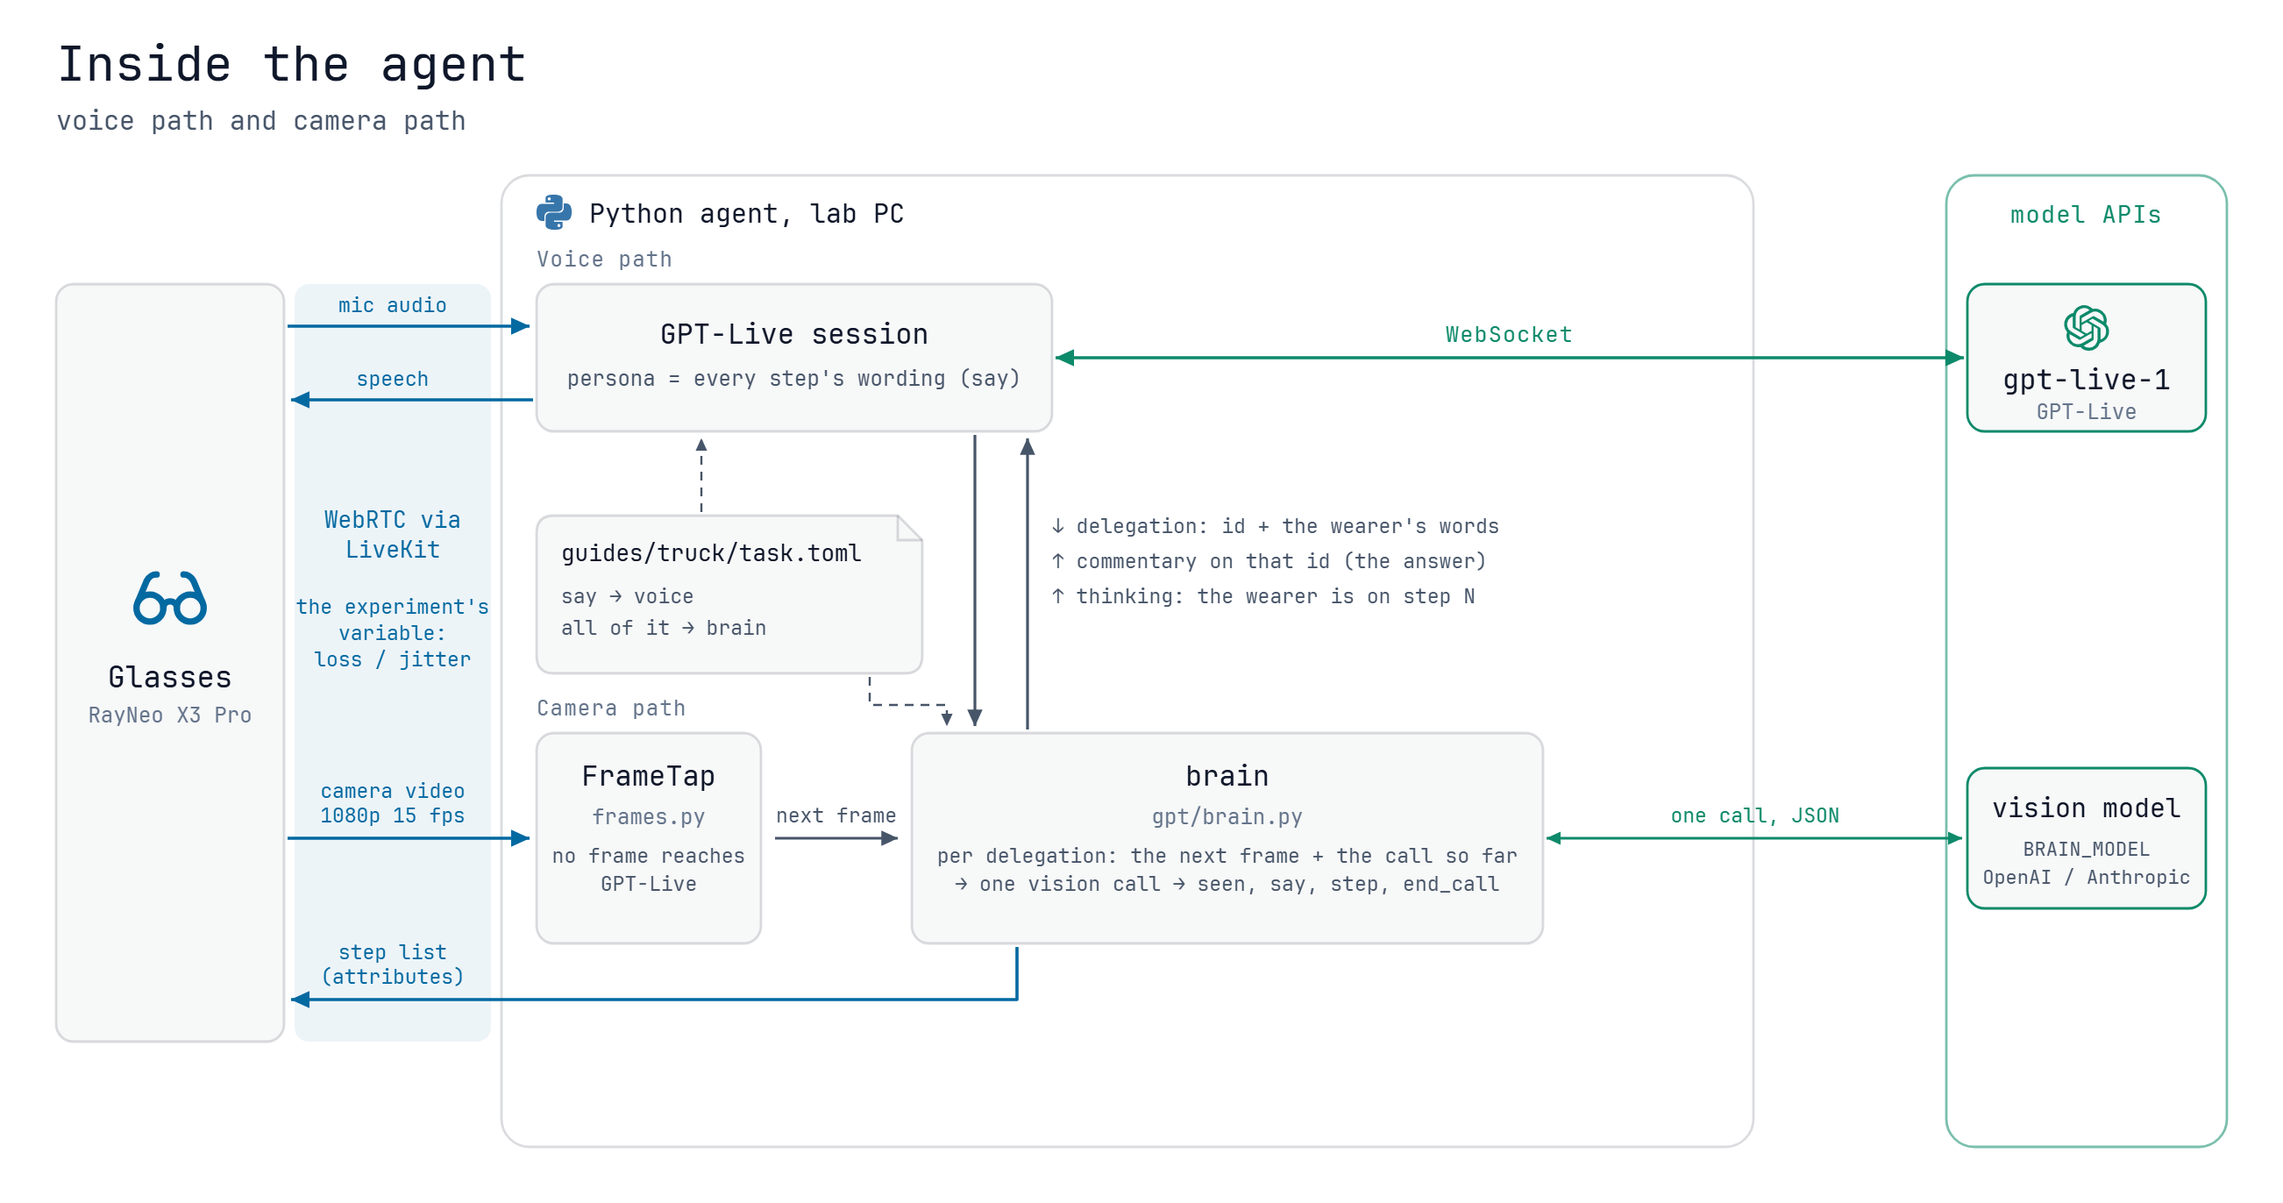
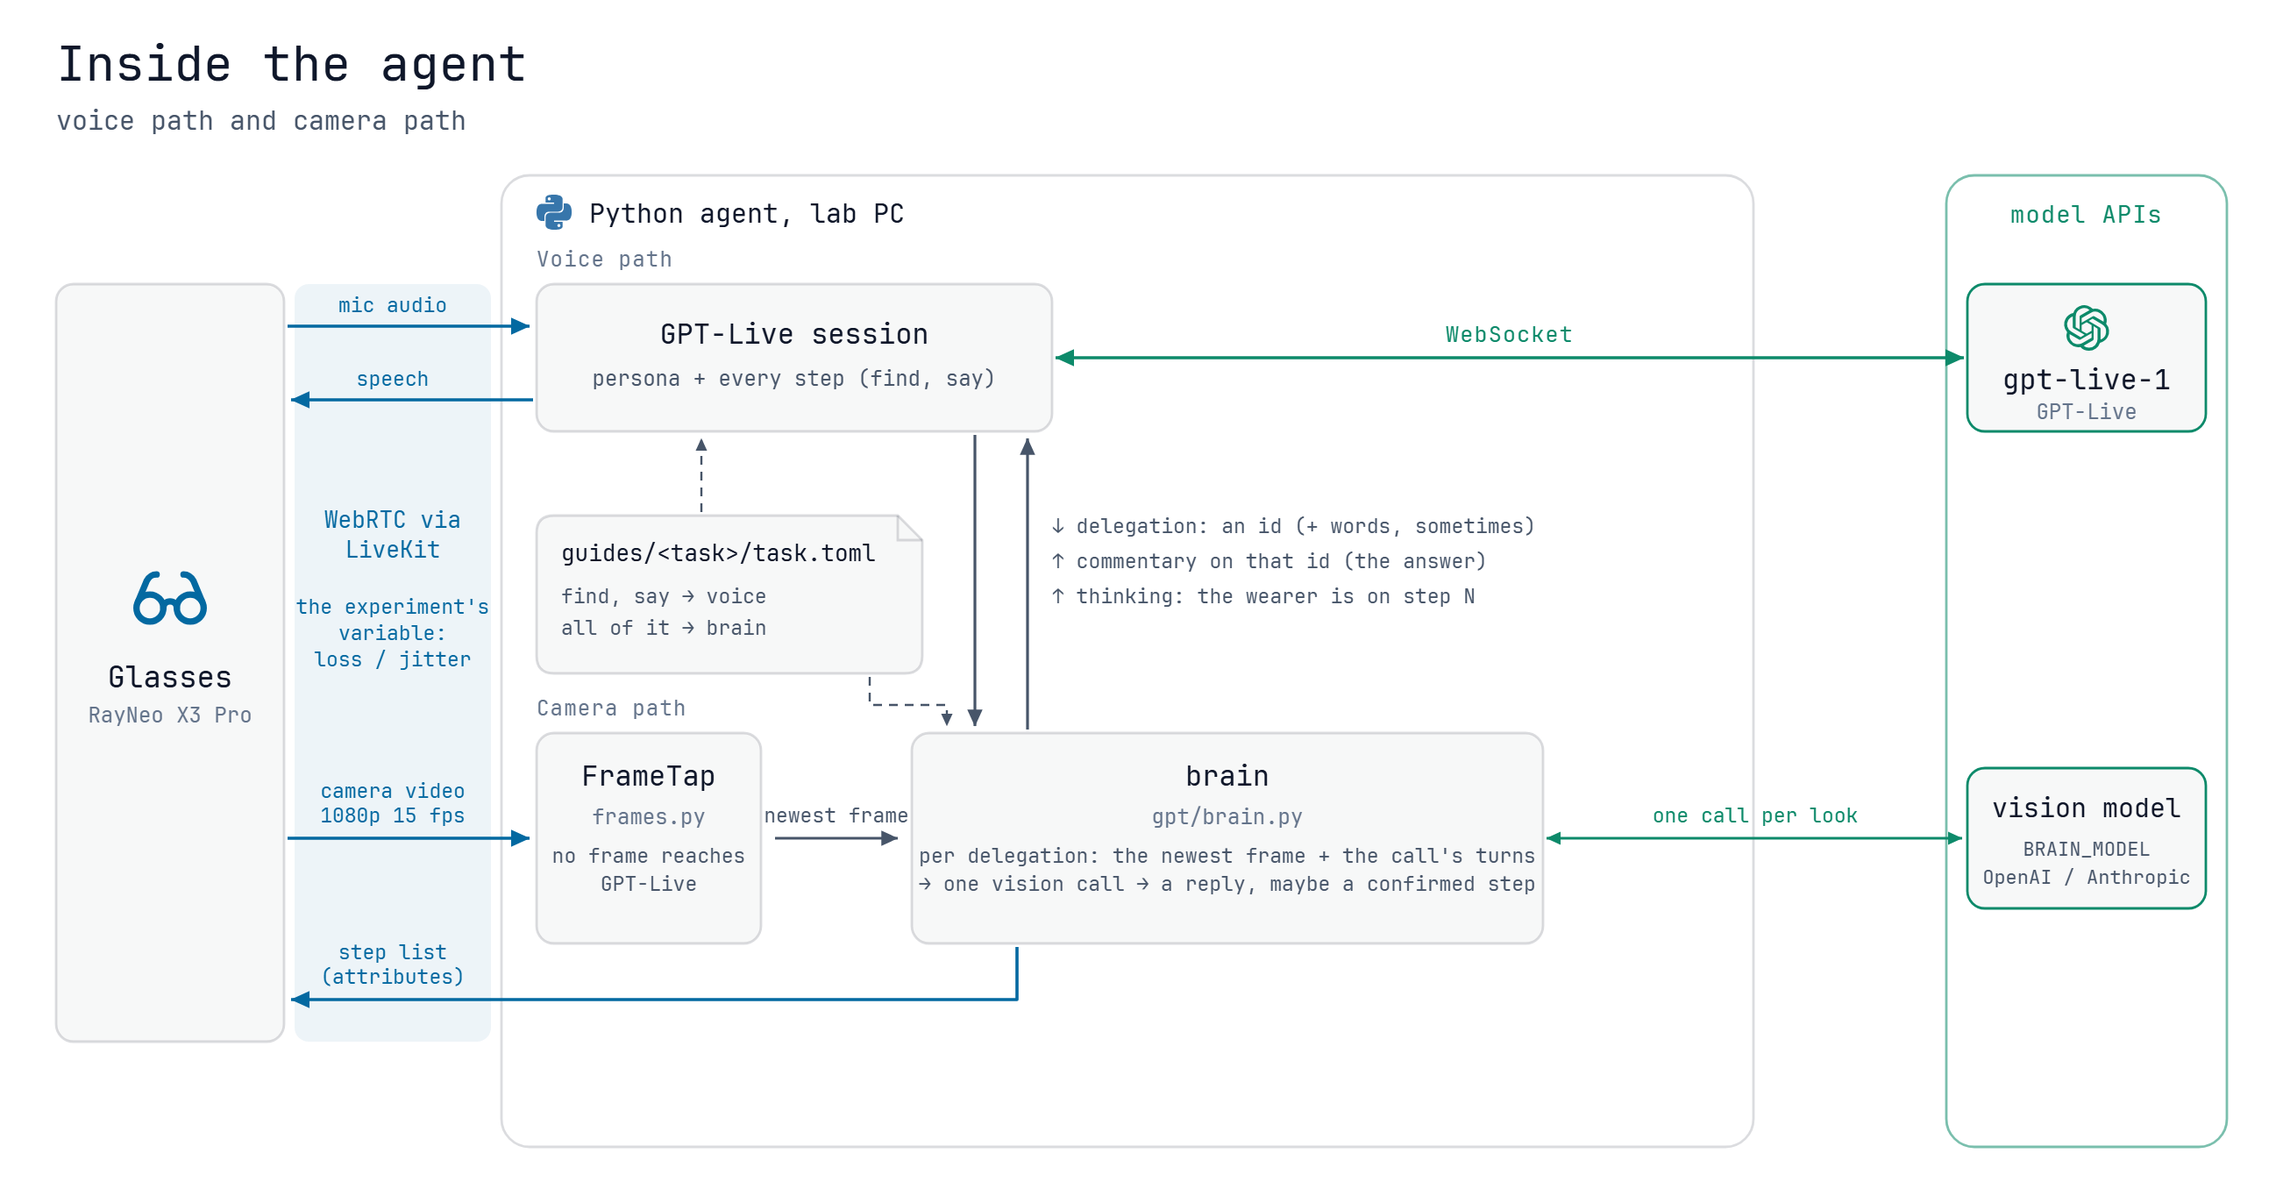
README and .env.example in step with brain-v2 (task pick through the api, the greeting names the build, the brain's two-part steps, Sonnet 5.5 low, 13 tasks, tasks/); the agent diagram's labels (newest frame, the call's turns, find/say, a reply with maybe a confirmed step); eval/brain: the live look

diff --git a/eval/brain/replay_look.py b/eval/brain/replay_look.py
@@ -1,0 +1,91 @@
+"""Replay one look of a recorded call through the brain's own Anthropic client, exactly as sent (the run's brain.txt,
+turns, notice, words, photo), under several model configs, keeping the thinking text.
+
+    replay_look.py <run dir> <look n> <repeats> <MODEL_ENV_VAR:effort> [...]   -> <run dir>/replay-look<n>.json/.html
+"""
+import asyncio, html, json, os, sys, time
+
+ROOT = os.path.abspath(os.path.join(os.path.dirname(__file__), "..", ".."))
+sys.path.insert(0, os.path.join(ROOT, "backend", "agent", "src"))
+from dotenv import load_dotenv
+load_dotenv(os.path.join(ROOT, "backend", ".env"))
+import gpt.brain as B
+
+run, n, repeats, configs = sys.argv[1], int(sys.argv[2]), int(sys.argv[3]), sys.argv[4:]
+events = [json.loads(l) for l in open(os.path.join(run, "events.jsonl"), encoding="utf-8")]
+sent = next(e for e in events if e["kind"] == "look_sent" and e["n"] == n)
+back = next(e for e in events if e["kind"] == "look_back" and e["n"] == n)
+instructions = open(os.path.join(run, "brain.txt"), encoding="utf-8").read()
+photo = open(os.path.join(run, sent["photo"]), "rb").read()
+turns = [tuple(t) for t in sent["turns"]]
+
+
+async def one(provider, var, effort):
+    model = os.environ[var]
+    got = {}
+    if provider == "openai":
+        m = B.OpenAIModel(model, effort, "high")
+        create = m._client.responses.create
+
+        async def keep(**kw):
+            if "reasoning" in kw:  # return a summary of the reasoning
+                kw["reasoning"] = {**kw["reasoning"], "summary": "auto"}
+            got["resp"] = r = await create(**kw)
+            return r
+        m._client.responses.create = keep
+    else:
+        m = B.AnthropicModel(model, effort)
+        create = m._client.messages.create
+
+        async def keep(**kw):
+            if kw.get("thinking", {}).get("type") == "adaptive":  # return the thinking text (5.x omits it by default)
+                kw["thinking"] = {**kw["thinking"], "display": "summarized"}
+            got["resp"] = r = await create(**kw)
+            return r
+        m._client.messages.create = keep
+    t0 = time.perf_counter()
+    try:
+        reply, calls, u = await m.ask(instructions, turns, sent["notice"], sent["words"], photo, "replay")
+    except Exception as e:
+        return {"model": model, "effort": effort, "error": f"{type(e).__name__}: {e}"[:300]}
+    secs = time.perf_counter() - t0
+    if provider == "openai":
+        thinking = "\n".join(x.text for o in got["resp"].output if o.type == "reasoning" for x in (o.summary or []))
+    else:
+        thinking = "\n".join(getattr(b, "thinking", "") or "" for b in got["resp"].content if b.type == "thinking")
+    return {"model": model, "effort": effort, "secs": round(secs, 2), "reply": reply, "calls": calls,
+            "confirm": any(c == "confirm_step_correct" and a.get("step") == sent["step"] for c, a in calls),
+            "thinking": thinking, "usage": u}
+
+
+async def main():
+    rows = []
+    for spec in configs:
+        parts = spec.split(":")
+        provider, var, effort = parts if len(parts) == 3 else ["anthropic", *parts]
+        for _ in range(repeats):
+            r = await one(provider, var, effort)
+            rows.append(r)
+            print(f"{r['model']} {effort}: {r.get('secs')} s confirm={r.get('confirm')} | {r.get('reply', r.get('error'))[:150]}")
+    out = os.path.join(run, f"replay-look{n}" + (os.environ.get("TAG") or ""))
+    json.dump({"look": n, "step": sent["step"], "recorded_reply": back["reply"], "rows": rows},
+              open(out + ".json", "w", encoding="utf-8"), ensure_ascii=False, indent=1)
+    page = [f"<meta charset=utf-8><style>body{{font-family:sans-serif;background:#111;color:#ddd;margin:20px}}"
+            f"td{{vertical-align:top;padding:6px 10px;border-top:1px solid #333}}pre{{white-space:pre-wrap;font-size:12px;"
+            f"background:#1b1b1b;padding:8px}}.ok{{color:#7d7}}.bad{{color:#f77}}summary{{color:#9cf;cursor:pointer}}</style>",
+            f"<h2>Look #{n} replayed (step {sent['step']}), {repeats}x per config</h2>",
+            f"<img src='{sent['photo']}' width=540 style='float:left;margin-right:16px'>",
+            f"<p>wearer: {html.escape(sent['words'])}</p><p>recorded reply: {html.escape(back['reply'])}</p>"
+            f"<p>truth: the step is right (four empty columns, ends level), so the right answer confirms step {sent['step']}.</p>"
+            "<div style='clear:both'></div><table>"]
+    for r in rows:
+        ok = r.get("confirm")
+        page.append(f"<tr><td>{r['model']}<br>{r['effort']}<br>{r.get('secs')} s<br>"
+                    f"<span class={'ok' if ok else 'bad'}>{'confirm' if ok else 'no confirm'}</span></td>"
+                    f"<td>{html.escape(r.get('reply') or r.get('error') or '')}<details><summary>thinking "
+                    f"({(r.get('usage') or {}).get('thinking')} tokens)</summary><pre>{html.escape(r.get('thinking') or '')}"
+                    f"</pre></details></td></tr>")
+    open(out + ".html", "w", encoding="utf-8").write("".join(page) + "</table>")
+    print(out + ".html")
+
+asyncio.run(main())

diff --git a/docs/make_agent_diagram.py b/docs/make_agent_diagram.py
@@ -155,7 +155,7 @@ def build(t: dict) -> str:
     sx, sy, sw, sh = SESS
     card(sx, sy, sw, sh)
     text(sx + sw / 2, sy + 34, "GPT-Live session", 16, t["text"])
-    text(sx + sw / 2, sy + 58, "persona = every step's wording (say)", 12, t["muted"])
+    text(sx + sw / 2, sy + 58, "persona + every step (find, say)", 12, t["muted"])
 
     # FrameTap and the brain
     tx0 = FX + IN
@@ -168,10 +168,10 @@ def build(t: dict) -> str:
     bcx0 = BRAIN_X + BRAIN_W / 2
     text(bcx0, PY + 30, "brain", 16, t["text"])
     text(bcx0, PY + 52, "gpt/brain.py", 12, t["dim"])
-    text(bcx0, PY + 74, "per delegation: the next frame + the call so far", 11.5, t["muted"])
-    text(bcx0, PY + 90, "→ one vision call → seen, say, step, end_call", 11.5, t["muted"])
+    text(bcx0, PY + 74, "per delegation: the newest frame + the call's turns", 11.5, t["muted"])
+    text(bcx0, PY + 90, "→ one vision call → a reply, maybe a confirmed step", 11.5, t["muted"])
     wire([(tx0 + TAP_W + 8, Y_PIPE), (BRAIN_X - 8, Y_PIPE)], t["muted"], "headm")
-    text((tx0 + TAP_W + BRAIN_X) / 2, Y_PIPE - 9, "next frame", 11.5, t["muted"])
+    text((tx0 + TAP_W + BRAIN_X) / 2, Y_PIPE - 9, "newest frame", 11.5, t["muted"])
 
     # task file
     tx, ty, tw, th = TASK
@@ -183,8 +183,8 @@ def build(t: dict) -> str:
         f'stroke-width="1.4"/>')
     add(f'<path d="M{tx + tw - fold} {ty} V{ty + fold} H{tx + tw}" fill="none" '
         f'stroke="{t["edge"]}" stroke-width="1.4"/>')
-    text(tx + 14, ty + 26, "guides/truck/task.toml", 13, t["text"], "start")
-    for j, s in enumerate(["say → voice", "all of it → brain"]):
+    text(tx + 14, ty + 26, "guides/&lt;task&gt;/task.toml", 13, t["text"], "start")
+    for j, s in enumerate(["find, say → voice", "all of it → brain"]):
         text(tx + 14, ty + 50 + j * 18, s, 11.5, t["muted"], "start")
     wire([(400, ty - 2), (400, sy + sh + 4)], t["muted"], "headm", 1.2, dash=True)
     wire([(tx + tw - 30, ty + th + 2), (tx + tw - 30, ty + th + 18), (BRAIN_X + 20, ty + th + 18),
@@ -193,7 +193,7 @@ def build(t: dict) -> str:
     # voice <-> brain
     wire([(X_DELEG, sy + sh + 2), (X_DELEG, PY - 4)], t["muted"], "headm")
     wire([(X_ANSWER, PY - 2), (X_ANSWER, sy + sh + 4)], t["muted"], "headm")
-    text(X_ANSWER + 14, 304, "↓ delegation: id + the wearer's words", 11.5, t["muted"], "start")
+    text(X_ANSWER + 14, 304, "↓ delegation: an id (+ words, sometimes)", 11.5, t["muted"], "start")
     text(X_ANSWER + 14, 324, "↑ commentary on that id (the answer)", 11.5, t["muted"], "start")
     text(X_ANSWER + 14, 344, "↑ thinking: the wearer is on step N", 11.5, t["muted"], "start")
 
@@ -231,7 +231,7 @@ def build(t: dict) -> str:
     wire([(sx + sw + 2, Y_WS), (cx1 - 2, Y_WS)], t["cloud"], "headv", 1.8, start=True)
     text((sx + sw + cx1) / 2, Y_WS - 9, "WebSocket", 12.5, t["cloud"], extra=' letter-spacing="0.6"')
     wire([(BRAIN_X + BRAIN_W + 2, Y_PIPE), (cx1 - 3, Y_PIPE)], t["cloud"], "headv", 1.4, start=True)
-    text((BRAIN_X + BRAIN_W + cx1) / 2, Y_PIPE - 9, "one call, JSON", 11.5, t["cloud"])
+    text((BRAIN_X + BRAIN_W + cx1) / 2, Y_PIPE - 9, "one call per look", 11.5, t["cloud"])
 
     add("</svg>")
     return "\n".join(out)

diff --git a/README.md b/README.md
@@ -32,8 +32,10 @@ ports reachable at the address it advertises):
 - **livekit-server** verifies join tokens and forwards media.
 - **api**: the glasses `POST /getToken` with a credential; `auth.py` turns it into a user
   id or a 401, `server.py` signs a ten-minute JWT with that identity and a `room_config`
-  naming the agent. `AUTH_MODE`: `dev` accepts everyone (private LAN), `static` wants one
-  shared bearer token, `jwt` verifies a token from an account system.
+  naming the agent, with the build the glasses picked (`?task=`) as the agent's dispatch
+  metadata. `GET /tasks` lists the builds on offer. `AUTH_MODE`: `dev` accepts everyone
+  (private LAN), `static` wants one shared bearer token, `jwt` verifies a token from an
+  account system.
 - **agent** registers under `AGENT_NAME`, joins only rooms whose token names it, and alone
   holds the model API keys. `AGENT_BACKEND=openai` runs the system below (`agent/src/gpt/`);
   `gemini` runs the old Gemini Live path (`agent/src/gemini/`). Model ids come from `.env`.
@@ -47,9 +49,9 @@ holds the step. One task file feeds both.
 <picture>
   <source media="(prefers-color-scheme: dark)" srcset="docs/agent-dark.png">
   <img alt="Inside the agent: audio to a GPT-Live session whose persona holds every step's wording;
-video to FrameTap; the session delegates to the brain with an id and the wearer's words, the brain
-takes the next frame and the call so far to a vision model and answers with commentary on that id,
-a new step as thinking, and the step list to the glasses; the task file feeds both"
+video to FrameTap; the session delegates to the brain with an id, the brain takes the newest frame
+and the call's turns to a vision model and answers with commentary on that id, a new step as
+thinking, and the step list to the glasses; the task file feeds both"
        src="docs/agent-light.png">
 </picture>
 
@@ -59,13 +61,17 @@ a new step as thinking, and the step list to the glasses; the task file feeds bo
    once the wearer has it, where it goes (`say`). What needs no eyes (the next step, an earlier one, what a brick looks
    like) it answers itself. Whatever depends on what is in front of the wearer ("is this
    right?", "where does it go?", "what is this?") it delegates; a goodbye it answers itself and
-   the wearer hangs up on the glasses. Client
-   delegation: the plugin hands the agent an id and the wearer's words, no backend model runs.
+   the wearer hangs up on the glasses. It opens the call by naming the build. Client
+   delegation: the plugin hands the agent an id (and the wearer's words when they are not in
+   the history yet, often not), no backend model runs.
 2. **Brain** (`gpt/brain.py`), one stateless vision call per delegation, to OpenAI or
    Anthropic (`BRAIN_PROVIDER`, `BRAIN_MODEL`, `BRAIN_EFFORT`), built like LiveKit's
    client-delegation example. Instructions: the role (the eyes; it never speaks to the wearer,
-   the voice says its reply), the whole task file, how to reply, five examples from a made-up build
-   (shared by every task; fixed, so the prompt cache hits). One tool, `confirm_step_correct(step)`, its rules in its own
+   the voice says its reply), the whole task file (a step with a find line comes in two parts,
+   and its facts apply once the brick is on the plate), how to reply, five examples from a
+   made-up build (shared by every task; fixed, so the prompt cache hits). `brain-v2` runs
+   Sonnet 5.5 at effort low: on a look that needs a gap counted, a replay got it right 10/10,
+   Haiku 5.5 low 3/10. One tool, `confirm_step_correct(step)`, its rules in its own
    description; there is no hang-up tool, a misjudged goodbye cut calls off. Turns: the call's
    chat history, the wearer as user and the voice as assistant. The last turn: the camera
    frame's bottom square (the glasses look down at the table; the top of the portrait frame is
@@ -78,8 +84,8 @@ a new step as thinking, and the step list to the glasses; the task file feeds bo
    goes, and the brain's earlier replies are not sent back to it: what a look saw survives as
    what the voice said of it. Offline tests of models, image and prompt:
    `eval/brain/RESULTS.md`.
-3. **Task file** (`guides/<task>/task.toml`: `ladder` and `letter-e`, five bricks each; `truck`
-   is the old 13-step task): per step the wording the wearer hears (`find`, `say`), where the brick goes and what a
+3. **Task file** (`guides/<task>/task.toml`; the 13 numbered five-brick tasks of
+   `tasks/sheet.html`, picked on the glasses; `truck` is the old 13-step task): per step the wording the wearer hears (`find`, `say`), where the brick goes and what a
    photo must show (`where`, `checks`), and the brick's cells (and, for the truck, colour tables
    for the CV judge). Where the build sits on the plate is loose; how its bricks sit against
    each other is exact. One vocabulary throughout, also in both prompts: the
@@ -109,8 +115,9 @@ backend/
                         the lego-harness-v1 camera loop, not run; eval/ uses the first four
   agent/src/gemini/     the Gemini Live path (not in use)
   agent/src/render.py   reference-model video stream (used by guides with a model.glb; the truck has none)
-  agent/guides/         build guides, chosen with BUILD_GUIDE; guides/letter-e is the current task
-android/                Kotlin + Compose app for the glasses
+  agent/guides/         build guides: the numbered tasks the glasses pick from; BUILD_GUIDE when none is picked
+android/                Kotlin + Compose app for the glasses (build picker, call screen)
+tasks/                  the five-brick task sheet (sheet.html) and the bricks it uses (bricks.jpg)
 deploy/
   setup.sh              first-time setup on a Linux host: key pair, livekit.yaml, .env
   livekit.lab.yaml      livekit-server config for a private LAN

diff --git a/eval/brain/RESULTS.md b/eval/brain/RESULTS.md
@@ -101,12 +101,35 @@ camera washes out light colours also seems to make the brain doubt white bricks 
 (median output 760 tokens in the last replay against ~400 before). Single looks did not show either effect
 (haiku-v5-medium 45/45).
 
-## To try on the glasses
+## A live look replayed (2026-10-11)
 
-Configs worth comparing live (all in `.env`, no rebuild): `BRAIN_PROVIDER=anthropic` with
-`BRAIN_MODEL=claude-haiku-5-5` and `BRAIN_EFFORT=medium` (most accurate), `low`, `none`; and
-`claude-sonnet-5-5` with `low`. The offline numbers say nothing about how long a wait feels or how Live words
-the reply.
+Ladder task, step 2 (two 1x6 rails, four empty columns between them, ends level): live, Haiku 5.5 low called the
+gap three, then five, then three, and the call stuck. Look #4 of that call (the first gap count, the wearer
+saying "No, it is even. Check again") replayed exactly as sent (the record's brain.txt, turns, notice, words and
+photo; `replay_look.py`), five times per config, two rounds for the Anthropic ones. The step was right, so the
+right answer confirms it.
+
+| config | right | seconds |
+|---|---|---|
+| Sonnet 5.5, effort low | 10/10 | 3.3-5.8 |
+| gpt-6-luna, effort low | 4/5 | 3.7-6.1 |
+| Haiku 5.5, effort medium | 6/10 | 4.9-7.9 |
+| Haiku 5.5, effort low | 3/10 | 4.1-8.0 |
+| gpt-6-sol, effort low | 1/5 | 4.1-9.0 |
+
+Every model's thinking measures instead of counting: pixel positions of the two bricks divided by a guessed stud
+pitch. Haiku took the pitch over the whole plate, too big for the far half under perspective, and came out one
+short; sol guessed it too small and came out one over. Same prompt for all, so this one is the model, not the
+prompt. One photo only, and Sonnet opened every reply with "You're right": whether it also agrees when the wearer
+is wrong is untested. The OpenAI models call the tool with no text when they confirm. The thinking text needs
+`display: "summarized"` on Claude 5.x (the default omits it). The call's record is local
+(`tmp/runs/20261011-192730-glasses-3e37a9a2`).
+
+## On the glasses
+
+`brain-v2` runs Sonnet 5.5 at effort low (letter E, 5/5: one miss, a 2x4 taken for the 2x6 with no thinking;
+median 2.1 s per look). Other configs are one `.env` change away (`BRAIN_MODEL`, `BRAIN_EFFORT`, no rebuild).
+The offline numbers say nothing about how long a wait feels or how Live words the reply.
 
 ## Rerun
 
@@ -115,5 +138,6 @@ From `backend/agent` (keys from `backend/.env`; the model id comes from the name
     uv run python ../../eval/brain/run.py anthropic BRAIN_MODEL 1080 3 ../../eval/brain/results/<run>.json medium
     uv run python ../../eval/brain/run.py anthropic BRAIN_MODEL 1080 3 <out>.json none drawing   # perfect view
     uv run python ../../eval/brain/report_tools.py    # HTML of the tool-era runs -> tmp/brain-report/
+    HAIKU=claude-haiku-5-5 SONNET=claude-sonnet-5-5 uv run python ../../eval/brain/replay_look.py         <run dir> <look n> 5 HAIKU:low SONNET:low openai:LUNA:low   # one recorded look, as sent -> <run>/replay-look<n>.html
 
 `run.py` runs the repo's brain code as it is; the JSON-era runs used earlier versions of it (git history).
